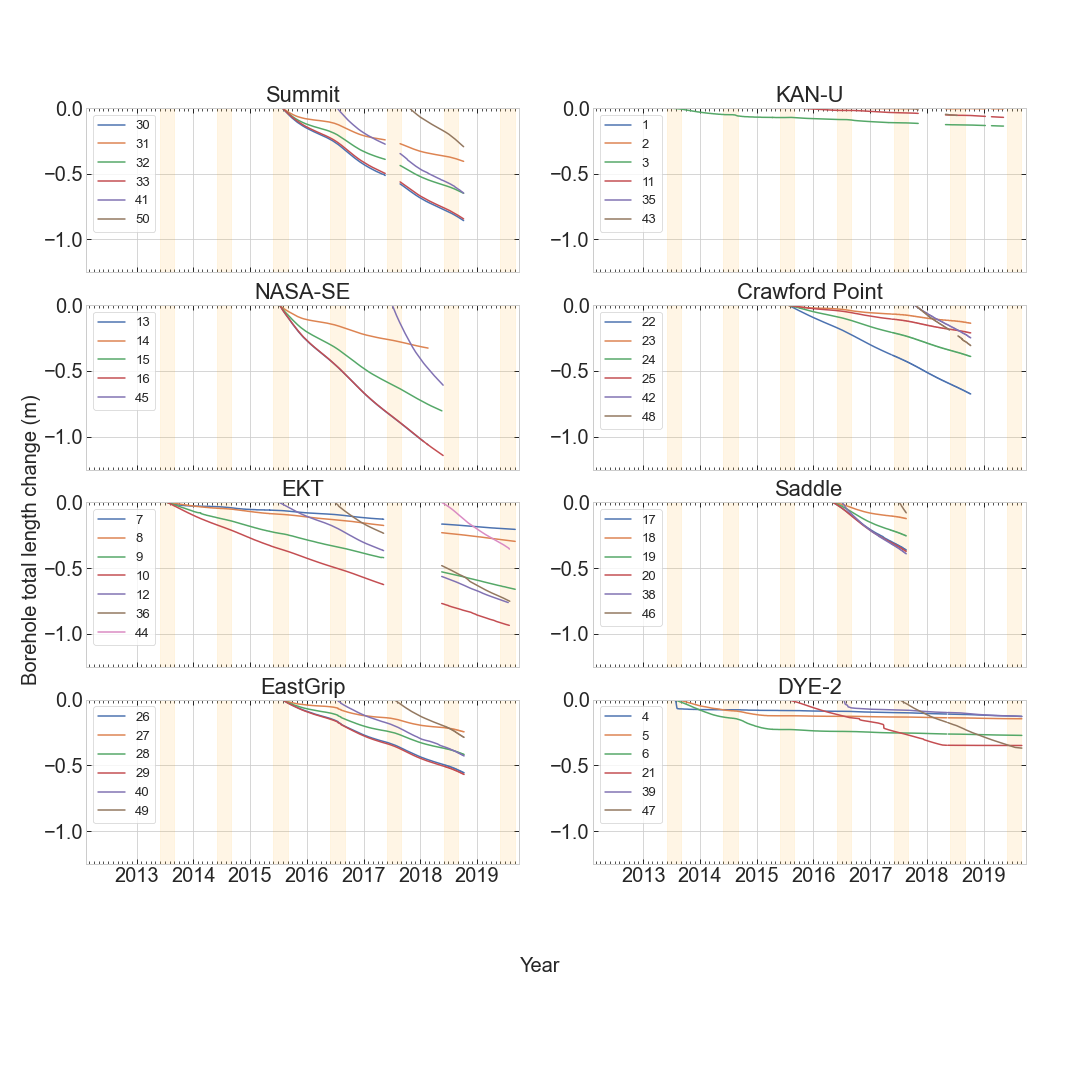
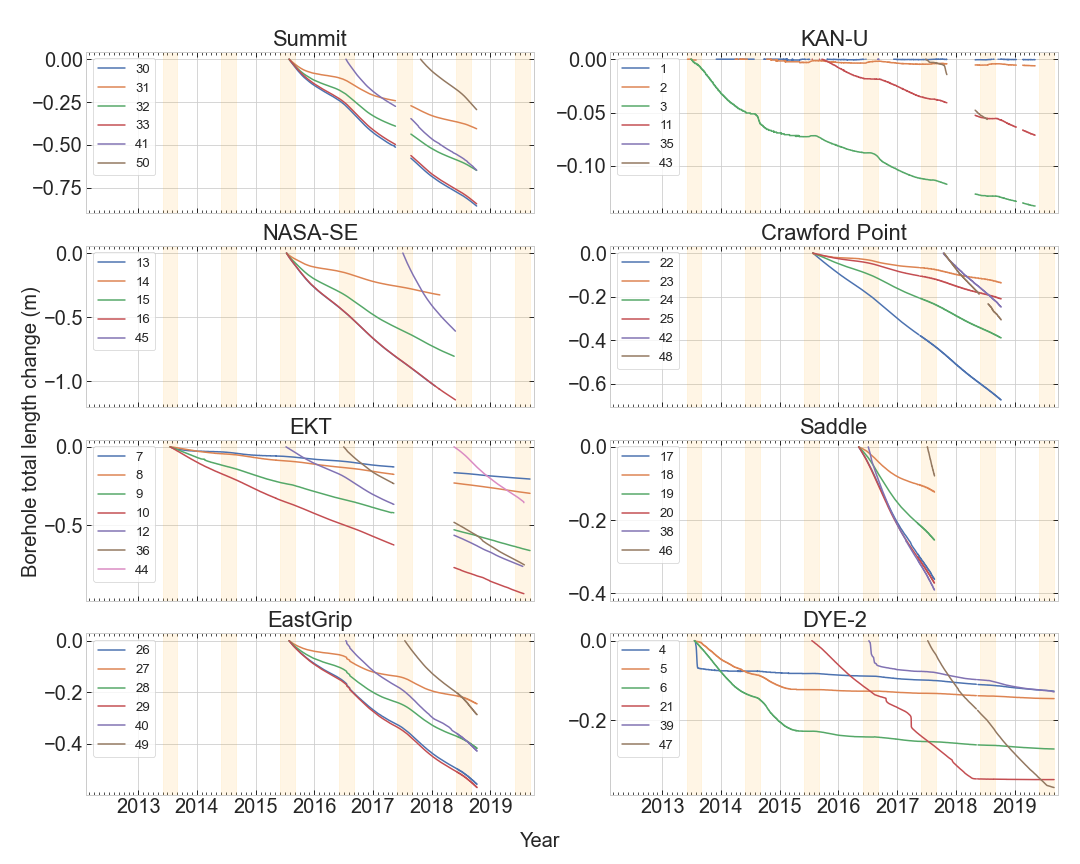
final update before submission

diff --git a/FirnCoVer_analysis.py b/FirnCoVer_analysis.py
@@ -163,7 +163,7 @@ f, ax = fcl.multi_plot(inst_meta_df, compaction_df,
 for k in range(np.size(ax)):
     i,j = np.unravel_index(k, ax.shape)
     ax[i,j].set_ylim((-1.25,0))
-f.savefig('figures/borehole_shortening_m.png')
+f.savefig('figures/borehole_shortening_m.tiff', dpi=600, format="tiff", pil_kwargs={"compression": "tiff_lzw"})
 
 
 #%% daily compaction
@@ -196,7 +196,7 @@ f, ax = fcl.multi_plot(inst_meta_df, compaction_df,
 #     i,j = np.unravel_index(k, ax.shape)
 ax[1,1].set_ylim((0, 2))
 ax[3,1].set_ylim((0,2))
-f.savefig('figures/daily_compaction_md_smoothed.png')
+f.savefig('figures/daily_compaction_md_smoothed.tiff', dpi=600, format="tiff", pil_kwargs={"compression": "tiff_lzw"})
 
 #%% print period where instruments where tower was not working
 for instr_nr in np.array([32, 7, 11,17]):
@@ -225,10 +225,10 @@ sonic_df.loc[pd.IndexSlice['EastGrip', '2017-11-01':], 'delta'] = np.nan
 sonic_df.loc[pd.IndexSlice['KAN-U', '2017-11-01':'2018-04-01'], 'delta'] = np.nan
 sonic_df.loc[pd.IndexSlice['EKT', '2017-11-01':'2018-04-01'], 'delta'] = np.nan
 
-f1, ax = plt.subplots(4 ,2,figsize=(15, 13))
-f1.subplots_adjust(hspace=0.2, wspace=0.2,
-                   left = 0.08 , right = 0.9 ,
-                   bottom = 0.2 , top = 0.9)
+f1, ax = plt.subplots(4,2,figsize=(15, 12))
+f1.subplots_adjust(hspace=0.2, wspace=0.17,
+                   left = 0.08 , right = 0.92,
+                   bottom = 0.08 , top = 0.94)
 count = -1
 for site in sites:
     print(site)
@@ -261,11 +261,10 @@ for site in sites:
         
     if count<len(sites)-2:
         ax[i,j].set_xticklabels("")
-f1.text(0.5, 0.1, 'Year', ha='center', size = 20)
+f1.text(0.5, 0.02, 'Year', ha='center', size = 20)
 f1.text(0.02, 0.5, 'Daily air temperature ($^o$C)', va='center', rotation='vertical', size = 20, color = color1)
 f1.text(0.95, 0.5, 'Surface height (m)', va='center', rotation='vertical', size = 20, color = color2)
-f1.savefig('figures/Ta_HS.png')
-    
+f1.savefig('figures/Ta_HS.tiff', dpi=600, format="tiff", pil_kwargs={"compression": "tiff_lzw"})
     
 #%% firn temperature
 
@@ -273,10 +272,10 @@ sites2 = sites.copy()
 sites2.remove('EastGrip')
 sites2.remove('NASA-SE')
 
-f1, ax = plt.subplots(3,2,figsize=(20, 15))
-f1.subplots_adjust(hspace=0.2, wspace=0.1,
+f1, ax = plt.subplots(3,2,figsize=(15, 10))
+f1.subplots_adjust(hspace=0.2, wspace=0.17,
                    left = 0.08 , right = 0.85 ,
-                   bottom = 0.2 , top = 0.9)
+                   bottom = -0.05 , top = 0.94)
 count = -1
 for site in sites2:
     print(site)
@@ -335,9 +334,9 @@ cbar_ax = f1.add_axes([0.9, 0.2, 0.02, 0.7])
 cb1 = f1.colorbar(cax1, cax=cbar_ax)
 cb1.set_label('Firn temperature ($^o$C)')
 cb1.set_ticks([-20, -15, -10,-5,0])  # horizontal colorbar
-f1.text(0.5, 0.1, 'Year', ha='center', size = 20)
+f1.text(0.5, 0.02, 'Year', ha='center', size = 20)
 f1.text(0.02, 0.5, 'Depth (m)', va='center', rotation='vertical', size = 20)
-f1.savefig('figures/RTD_temp.png')
+f1.savefig('figures/RTD_temp.tiff', dpi=600, format="tiff", pil_kwargs={"compression": "tiff_lzw"})
     # plt.close(f1)   
 
 
@@ -438,6 +437,6 @@ ax.xaxis.set_major_formatter(years_fmt)
 ax.xaxis.set_minor_locator(months)
 ax.set_xlabel("Year")
 ax.set_ylabel('10 m firn temperature (C)')
-f1.savefig('figures/T10.png')
+f1.savefig('figures/T10.tiff', dpi=600, format="tiff", pil_kwargs={"compression": "tiff_lzw"})
     # plt.close(f1)   
 

diff --git a/FirnCover_lib.py b/FirnCover_lib.py
@@ -287,10 +287,10 @@ def multi_plot(inst_meta_df, compaction_df, var = 'daily_compaction_md',
     years = mdates.YearLocator()   # every year
     months = mdates.MonthLocator()  # every month
     years_fmt = mdates.DateFormatter('%Y')
-    f1, ax = plt.subplots(sp1,sp2,figsize=(15, 15))
+    f1, ax = plt.subplots(sp1,sp2,figsize=(15, 12))
     f1.subplots_adjust(hspace=0.2, wspace=0.17,
-                       left = 0.08 , right = 0.95 ,
-                       bottom = 0.2 , top = 0.9)
+                       left = 0.08 , right = 0.98 ,
+                       bottom = 0.08 , top = 0.94)
     count = -1
     for site in sites:
         print(site)
@@ -321,7 +321,7 @@ def multi_plot(inst_meta_df, compaction_df, var = 'daily_compaction_md',
             
         if count<len(sites)-2:
             ax[i,j].set_xticklabels("")
-    f1.text(0.5, 0.1, 'Year', ha='center', size = 20)
+    f1.text(0.5, 0.02, 'Year', ha='center', size = 20)
     f1.text(0.02, 0.5, title, va='center', rotation='vertical', size = 20)
     f1.savefig('figures/'+filename_out+'.png')
     return f1, ax
